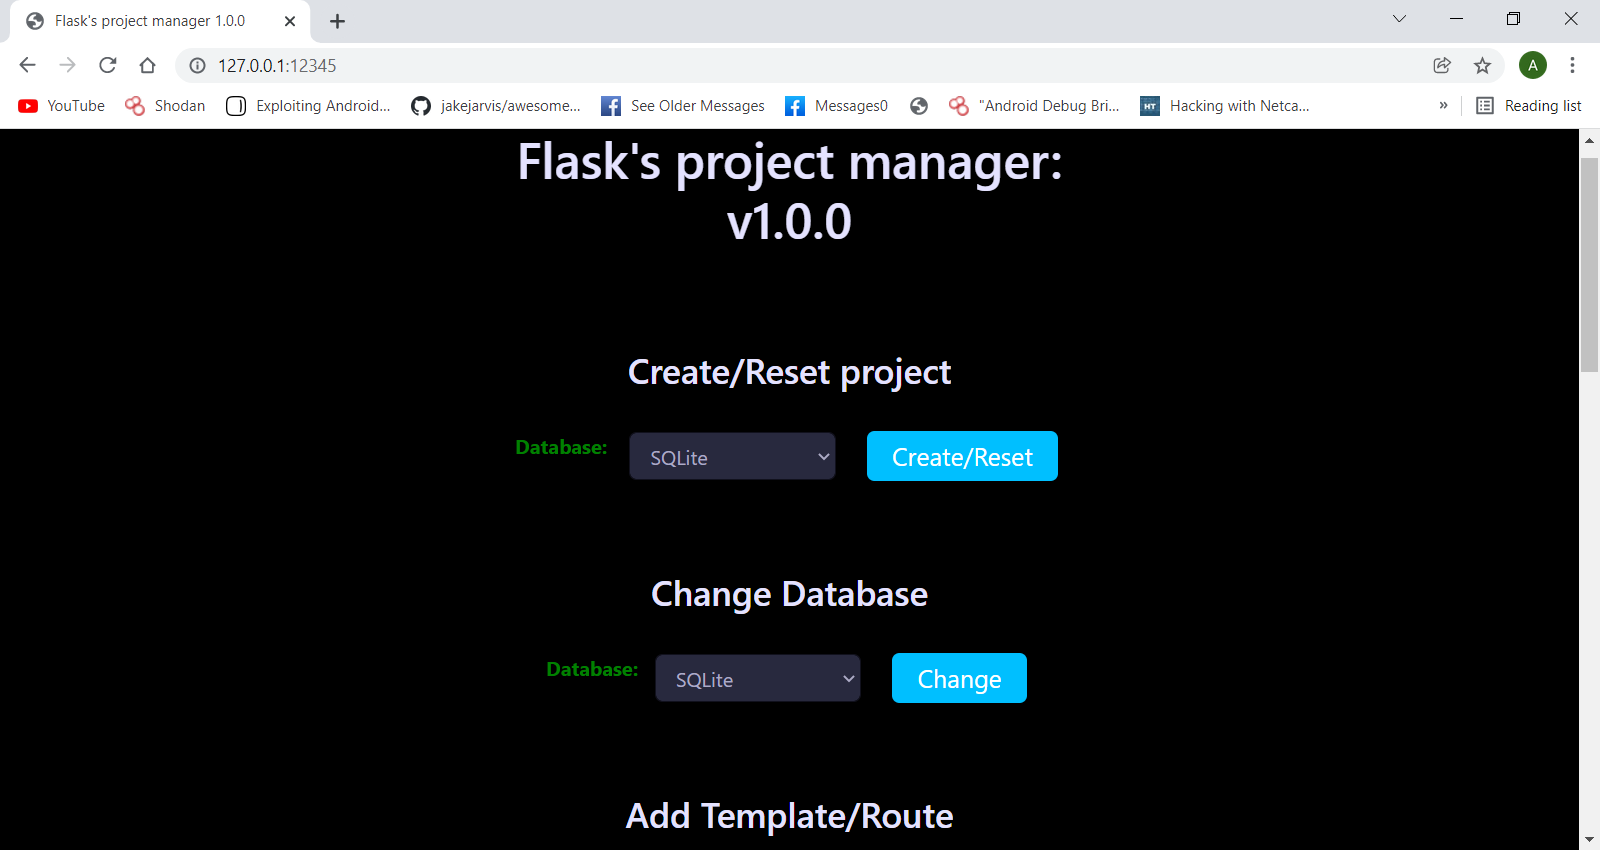
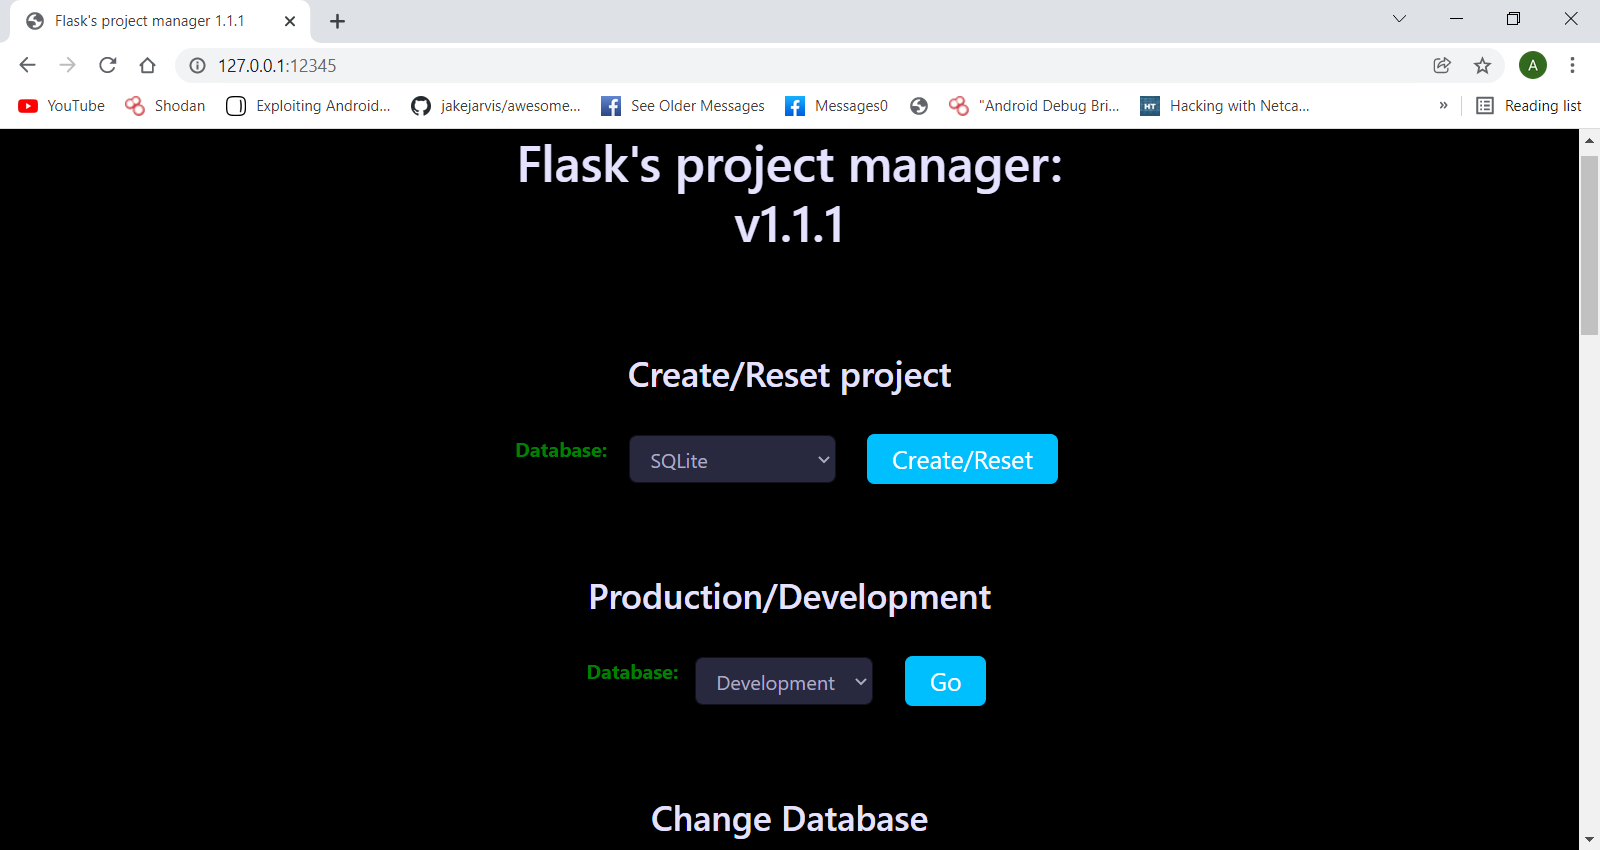
Add files via upload

diff --git a/setup.py b/setup.py
@@ -4,7 +4,7 @@ with open("README.md", "r") as fh:
 
 setuptools.setup(
     name="flask_man",
-    version="1.0.0",
+    version="1.1.1",
     author="AlaBouali",
     author_email="trap.leader.123@gmail.com",
     description="Flask module to auto setup and manage the project and its configurations (app code, templates, databases...)",

diff --git a/README.md b/README.md
@@ -72,11 +72,20 @@ args:
                       file and delete the code from "routes.py"
 
 
+        firebase_apikey: set the firebase APIKey
+
+
         firebase_bucket: set the firebase storage bucket
 
 
         firebase_configs: copy the firebase storage bucket's configs'
                           file to the local configs file
+
+
+        pro: set project to production mode
+
+
+        dev: set project to development mode
 
 </pre></div>
 # Manager
@@ -242,6 +251,17 @@ Example 2:
 
 
 
+** Set firebase APIKey:
+
+
+Example :
+
+
+        flask_man firebase_apikey "kjkhgyftrdfghjklkjhgfrdefg"
+
+
+
+
 ** Set firebase storage bucket:
 
 
@@ -283,4 +303,26 @@ Example 2:
 
 
         flask_man db postgresql
+
+
+
+
+** Go production:
+
+
+Example :
+
+
+        flask_man pro
+
+
+
+
+** Go development:
+
+
+Example :
+
+
+        flask_man dev
 </pre></div>
